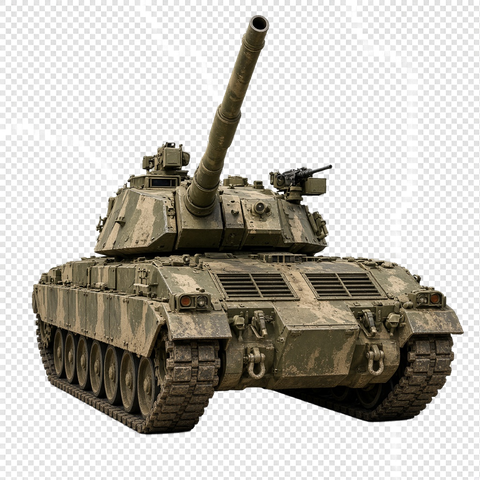
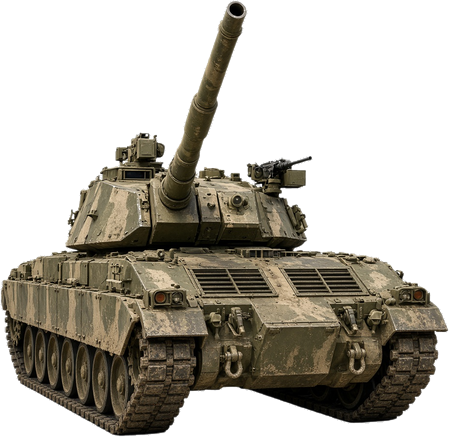
Clean sprite cutouts for desert compositing
Scrub residual studio backgrounds from tank and scout sprites so they
sit cleanly over the photoreal desert without gray bounding boxes.

diff --git a/js/game.js b/js/game.js
@@ -638,15 +638,14 @@
     if (img) {
       ctx.rotate(a.kind === "razor" ? a.rot : Math.sin(a.phase) * 0.08);
       const s = a.draw;
-      ctx.drawImage(img, -s / 2, -s / 2, s, s);
-      // Subtle biolum rim for desert contrast
-      ctx.globalCompositeOperation = "screen";
-      ctx.globalAlpha = 0.18;
-      ctx.fillStyle = a.color;
-      ctx.beginPath();
-      ctx.arc(0, 0, s * 0.42, 0, Math.PI * 2);
-      ctx.fill();
+      // Soft drop shadow under sprite
+      ctx.drawImage(img, -s / 2 + 3, -s / 2 + 5, s, s);
+      ctx.globalAlpha = 0.35;
+      ctx.globalCompositeOperation = "multiply";
+      ctx.drawImage(img, -s / 2 + 3, -s / 2 + 5, s, s);
       ctx.globalCompositeOperation = "source-over";
+      ctx.globalAlpha = a.hitFlash > 0 ? 0.55 : 1;
+      ctx.drawImage(img, -s / 2, -s / 2, s, s);
     } else {
       ctx.fillStyle = a.color;
       ctx.beginPath();

diff --git a/README.md b/README.md
@@ -22,11 +22,13 @@ Open `http://localhost:8080`.
 
 ## Features
 
+- Photoreal desert backdrop with ruined buildings and distant skyline
+- Image-based tank and alien sprites with parallax sand / heat haze
 - Wave-based alien swarm with scouts, brutes, razors, and orbs
 - Hull integrity (3 hits), brief invulnerability after damage
 - Occasional repair pickups
 - Score + local high score
-- Screen shake, muzzle flash, and breach-sky atmosphere
+- Screen shake, muzzle flash, and dusk atmosphere
 
 ## Layout
 
